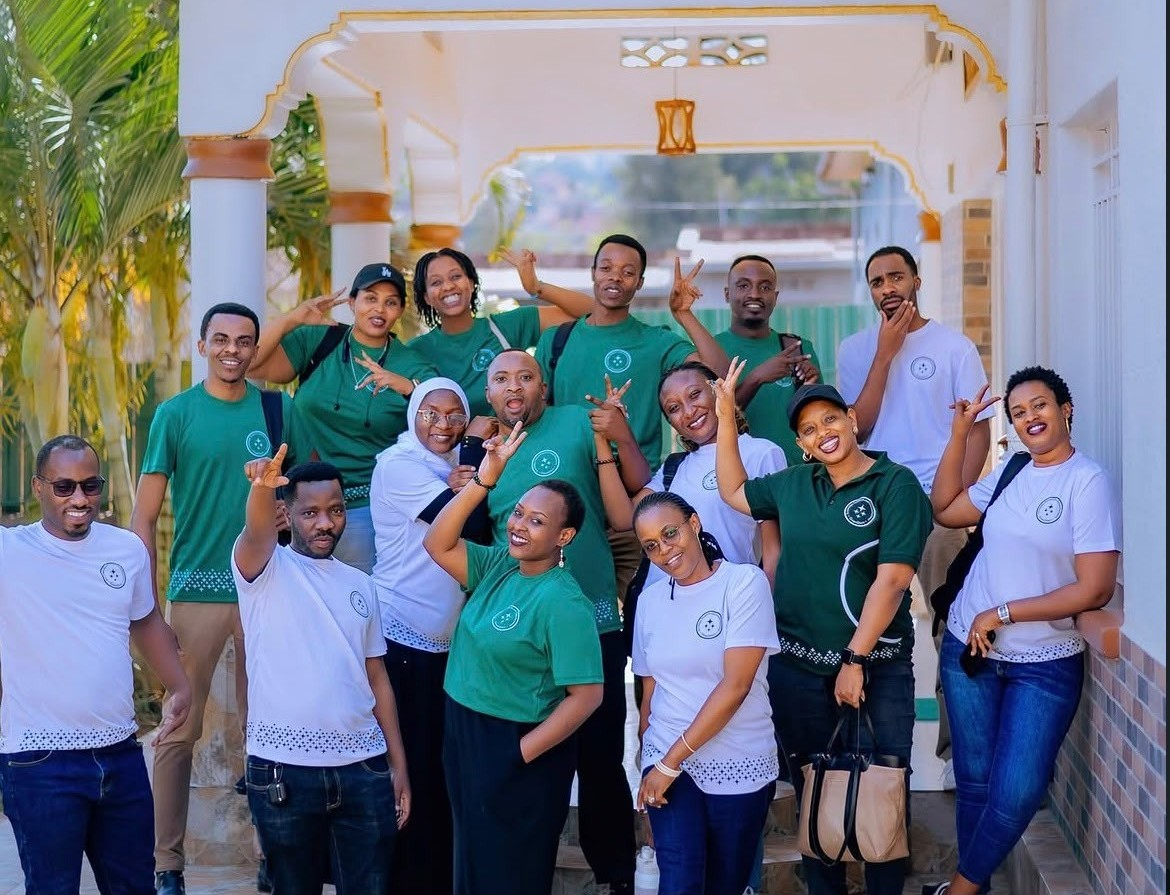
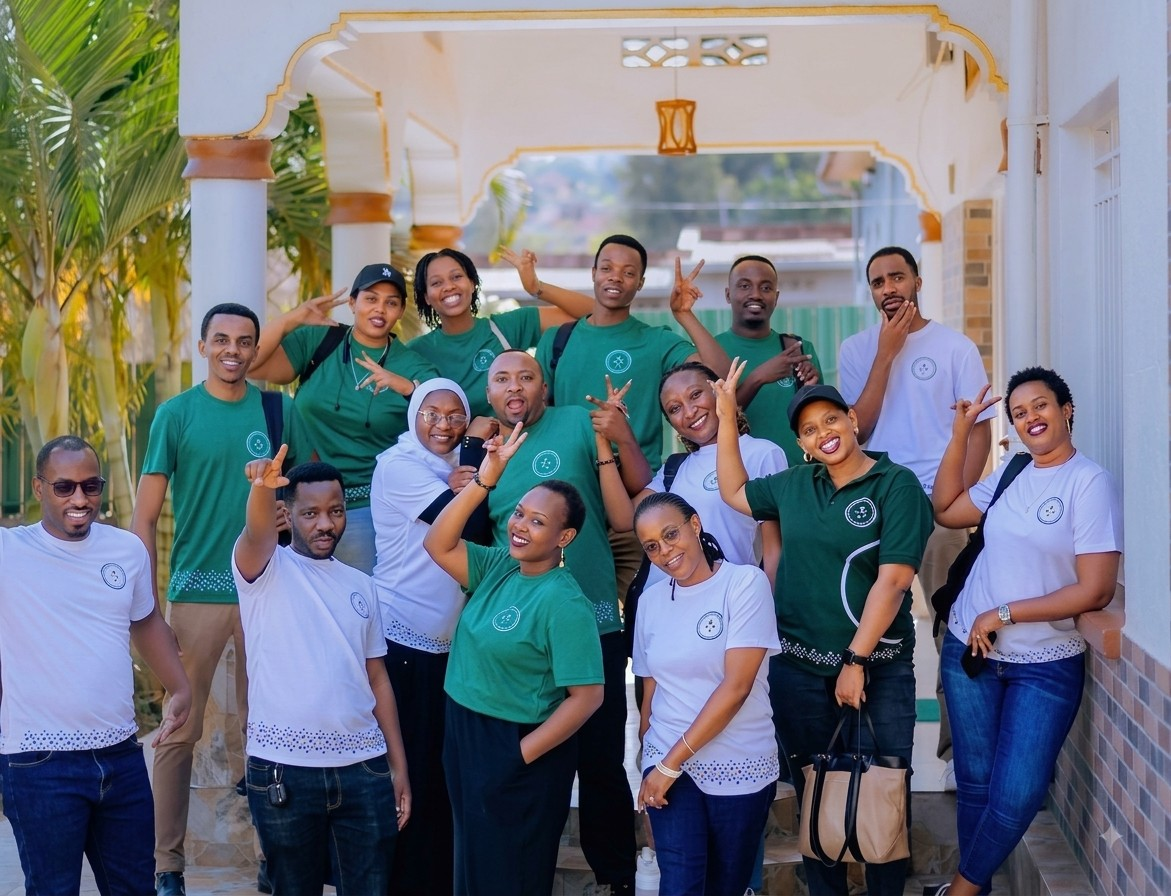
refactor: editing mail reminder and assets

diff --git a/config/db.js b/config/db.js
@@ -1,38 +1,24 @@
 /**
  * config/db.js
  * Centralized PostgreSQL connection pool.
+ * All models import this pool rather than creating their own connections.
  */
 require('dotenv').config();
 const { Pool } = require('pg');
 
-const isProduction = process.env.NODE_ENV === 'production' || Boolean(process.env.VERCEL);
-
-// Check for single DATABASE_URL first, otherwise fall back to individual PG variables
-const connectionString = process.env.DATABASE_URL;
-
-const pool = new Pool(
-  connectionString
-    ? {
-        connectionString,
-        ssl: isProduction ? { rejectUnauthorized: false } : false,
-        max: 10,
-        idleTimeoutMillis: 30000,
-        connectionTimeoutMillis: 10000,
-      }
-    : {
-        host: process.env.PGHOST || 'localhost',
-        port: process.env.PGPORT ? parseInt(process.env.PGPORT, 10) : 5432,
-        user: process.env.PGUSER || 'postgres',
-        password: process.env.PGPASSWORD || '',
-        database: process.env.PGDATABASE || 'isrs_capacity_building',
-        max: 10,
-        idleTimeoutMillis: 30000,
-        connectionTimeoutMillis: 10000,
-        ssl: isProduction ? { rejectUnauthorized: false } : false,
-      }
-);
+const pool = new Pool({
+  host: process.env.PGHOST || 'localhost',
+  port: process.env.PGPORT ? parseInt(process.env.PGPORT, 10) : 5432,
+  user: process.env.PGUSER || 'postgres',
+  password: process.env.PGPASSWORD || '',
+  database: process.env.PGDATABASE || 'isrs_capacity_building',
+  max: 20,
+  idleTimeoutMillis: 30000,
+  connectionTimeoutMillis: 5000,
+});
 
 pool.on('error', (err) => {
+  // Prevents an idle client error from crashing the whole process
   console.error('Unexpected PostgreSQL pool error:', err);
 });
 

diff --git a/utils/mailer.js b/utils/mailer.js
@@ -150,10 +150,29 @@ function commentPostedEmail({ to, recipientName, authorName, requestTitle, reque
   });
 }
 
+function dueSoonReminderEmail({ to, recipientName, requestTitle, requestId, dueDate, unclaimed }) {
+  const base = process.env.APP_BASE_URL || 'http://localhost:4000';
+  const dueLabel = new Date(dueDate).toLocaleString();
+  const statusNote = unclaimed
+    ? 'This request is still unclaimed in your department queue.'
+    : 'This request is assigned to you and still in progress.';
+  return sendMail({
+    to,
+    subject: `[CAPACITY BUILDING] Reminder: Request #${requestId} is due soon`,
+    html: renderEmailCard({
+      heading: `Deadline reminder`,
+      bodyHtml: `<p>Hi ${recipientName},</p><p>"<strong>${requestTitle}</strong>" (Ref #${requestId}) is due on <strong>${dueLabel}</strong> — within the next 24 hours, or already overdue.</p><p>${statusNote}</p>`,
+      ctaLabel: 'Open the request',
+      ctaUrl: `${base}/views/dashboard.html?request=${requestId}`,
+    }),
+  });
+}
+
 module.exports = {
   sendMail,
   statusChangeEmail,
   deliverableReadyEmail,
   newRequestEmail,
   commentPostedEmail,
+  dueSoonReminderEmail,
 };

diff --git a/views/login.html b/views/login.html
@@ -38,7 +38,7 @@
     
     <!-- Left: Logo -->
     <div class="flex items-center space-x-3 w-1/4">
-      <img src="/views/assets/logo.jpg" alt="Green Starz Logo" class="h-14 w-14 object-contain rounded-full bg-white p-1 shadow-md" onerror="this.style.display='none'">
+      <img src="/views/assets/logo.jpg" alt="Green Starz Logo" class="h-20 w-20 object-contain rounded-full shadow-md" onerror="this.style.display='none'">
     </div>
 
     <!-- Center: Brush-Style Green Banner Badge -->
